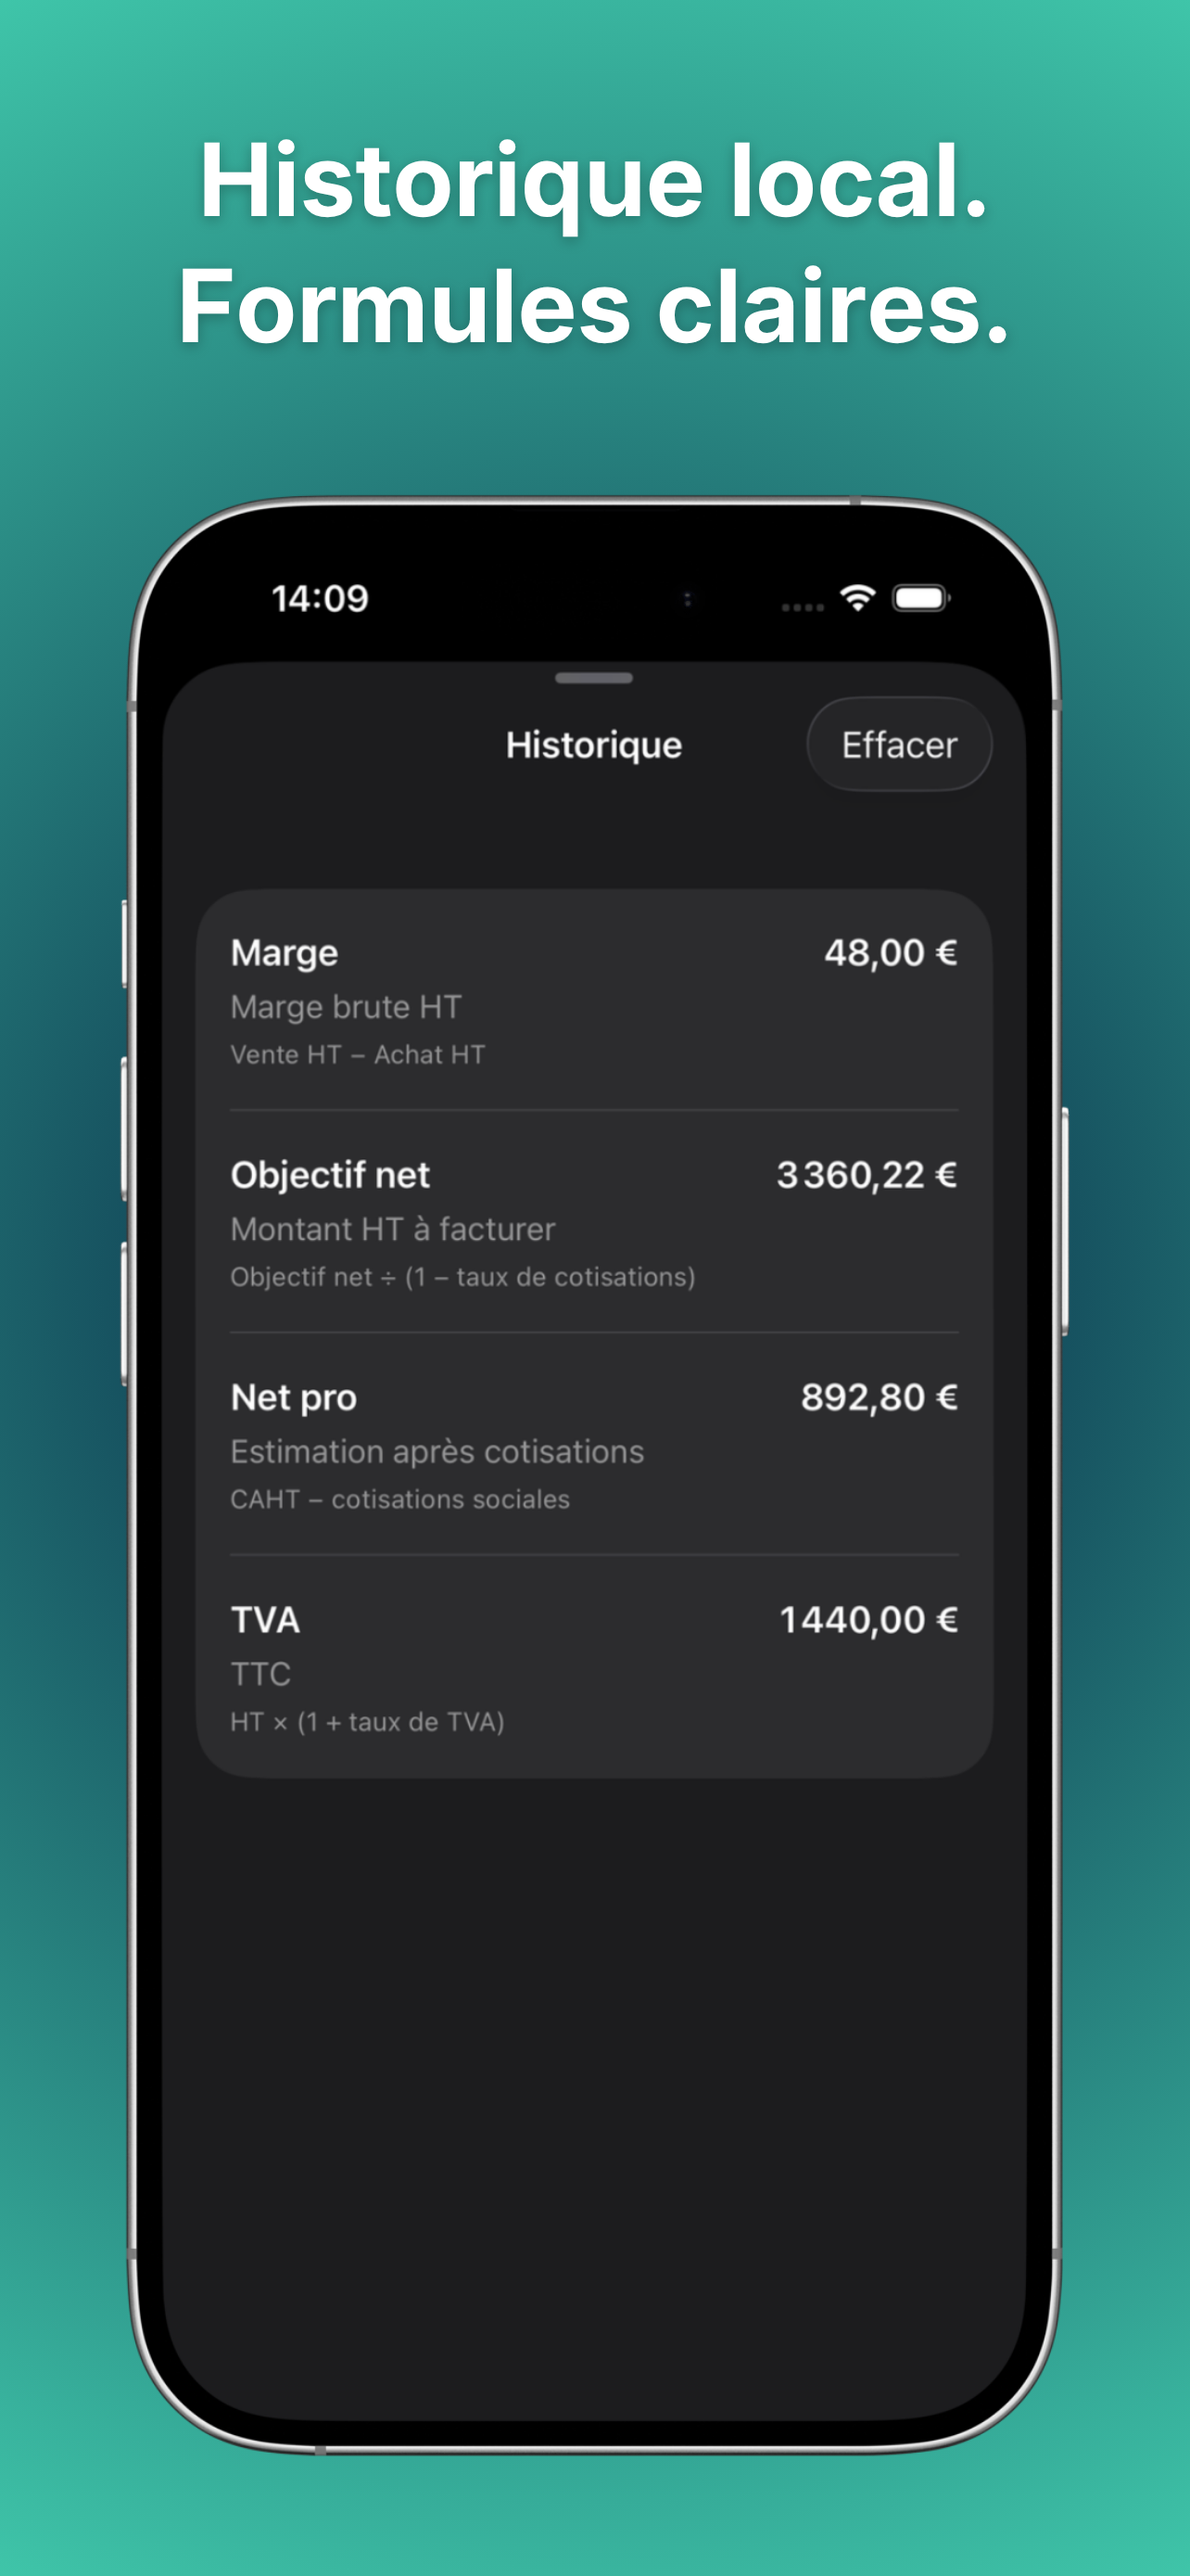
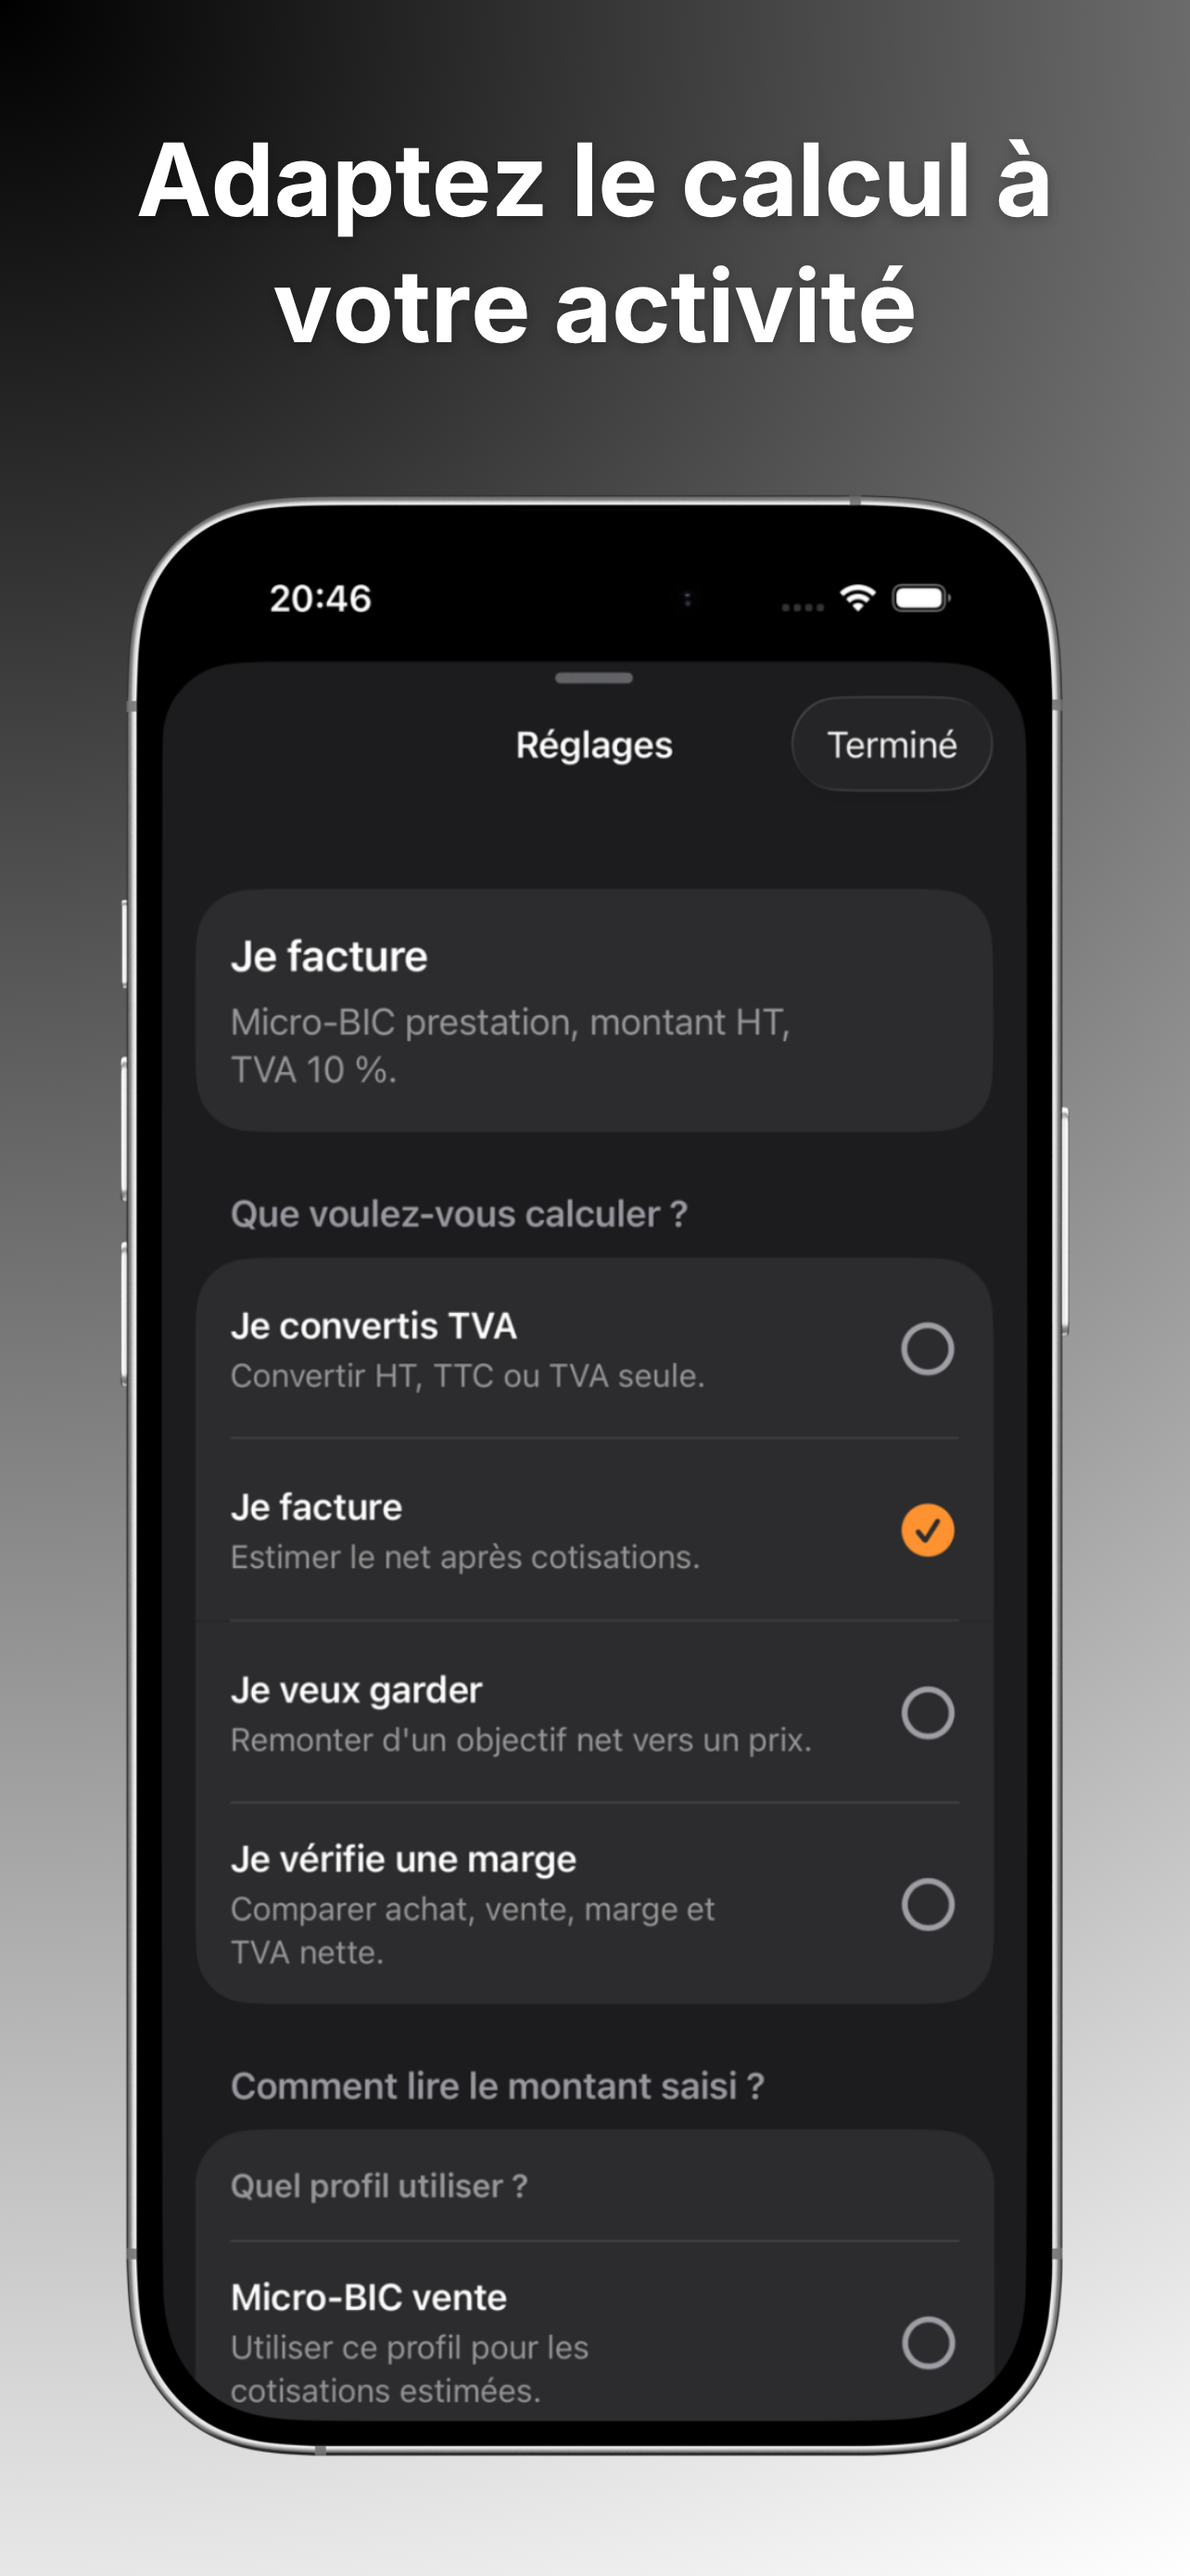
docs(release): prepare App Store 1.0.1 materials

diff --git a/apps/web/lib/sitemap.ts b/apps/web/lib/sitemap.ts
@@ -9,7 +9,7 @@ export interface SitemapEntry {
 }
 
 export const sitemapPages: PageKind[] = ["home", "privacy", "support"];
-export const sitemapLastModified = new Date("2026-05-20");
+export const sitemapLastModified = new Date("2026-05-21");
 
 function buildPageAlternates(page: PageKind) {
   return Object.fromEntries([

diff --git a/docs/releases/app-store-connect-metadata.md b/docs/releases/app-store-connect-metadata.md
@@ -1,16 +1,18 @@
 # Metadonnees App Store Connect
 
-Source : preparation interne pour App Store Connect, le
-2026-05-15T12:31:04+0400.
+Source : preparation interne pour App Store Connect, mise a jour pour la version
+1.0.1 le 2026-05-21T20:58:53+0400.
 
 Ce fichier archive les champs editoriaux et de configuration a renseigner pour
-la publication initiale de Calculette Fiscale. Les coordonnees personnelles de
+la publication de Calculette Fiscale. Les coordonnees personnelles de
 verification Apple ne sont pas archivees en clair dans le depot.
 
 ## Sources Apple utilisees
 
 - Metadonnees App Store Connect :
   https://developer.apple.com/help/app-store-connect/reference/app-information/platform-version-information
+- Proprietes localisables et modifiables :
+  https://developer.apple.com/help/app-store-connect/reference/app-information/required-localizable-and-editable-properties
 - Specifications des captures :
   https://developer.apple.com/help/app-store-connect/reference/app-information/screenshot-specifications
 - Confidentialite App Store :
@@ -18,7 +20,7 @@ verification Apple ne sont pas archivees en clair dans le depot.
 - Achats integres :
   https://developer.apple.com/help/app-store-connect/reference/in-app-purchases-and-subscriptions/in-app-purchase-information
 
-Limites Apple retenues au 2026-05-15 :
+Limites Apple retenues au 2026-05-21 :
 
 - Nom : 30 caracteres maximum.
 - Sous-titre : 30 caracteres maximum.
@@ -31,11 +33,11 @@ Limites Apple retenues au 2026-05-15 :
 ## Informations app globales
 
 - Nom : `Calculette Fiscale`
-- Sous-titre : `TVA, charges & net`
+- Sous-titre : `TVA, net pro & marge`
 - Bundle ID : `io.hgnn.calculettefiscale`
 - SKU recommande : `io.hgnn.calculettefiscale`
-- Version marketing : `1.0.0`
-- Build : `1`
+- Version marketing : `1.0.1`
+- Build : `2`
 - Cible minimum : `iOS 17.0`
 - Apple Developer Team : `393ZW5QCU6`
 - Langue principale : `Francais`
@@ -65,23 +67,23 @@ Compteur : 18 caracteres sur 30.
 ### Sous-titre
 
 ```text
-TVA, charges & net
+TVA, net pro & marge
 ```
 
-Compteur : 18 caracteres sur 30.
+Compteur : 20 caracteres sur 30.
 
 ### Texte promotionnel
 
 ```text
-HT, TTC, TVA, net et marge dans une calculette francaise, sans compte, sans pub et sans abonnement.
+TVA, net pro, objectif net et marge dans une calculette française. Sans compte, sans pub, sans abonnement.
 ```
 
-Compteur : 99 caracteres sur 170.
+Compteur : 106 caracteres sur 170.
 
 ### Mots-cles
 
 ```text
-tva,ttc,horstaxe,micro,autoentrepreneur,freelance,charges,net,marge,urssaf,devis,prix,impot
+ttc,horstaxe,micro,autoentrepreneur,freelance,charges,urssaf,devis,prix,facture,cotisations
 ```
 
 Compteur : 91 octets sur 100.
@@ -89,43 +91,44 @@ Compteur : 91 octets sur 100.
 Notes ASO :
 
 - Ne pas repeter `Calculette Fiscale`, deja couvert par le nom.
+- Ne pas repeter `TVA`, `net` ou `marge`, deja couverts par le sous-titre.
 - `HT` n'est pas ajoute seul car Apple demande des mots-cles de plus de deux
   caracteres. `horstaxe` couvre l'intention de recherche.
-- La fiche doit garder l'angle `TVA, net, marge`, plus differenciant qu'une app
-  TVA pure.
+- La fiche garde l'angle `TVA, net pro, marge`, plus differenciant qu'une app
+  TVA pure et plus prudent qu'une promesse de declaration fiscale.
 
 ### Description
 
 ```text
-Calculette Fiscale est la calculette francaise pour comprendre rapidement ce qu'il y a derriere un montant : HT, TTC, TVA, charges, net estime et marge.
+Calculette Fiscale est la calculette française pour comprendre vite ce qu'il y a derrière un montant : TVA, HT, TTC, net pro estimé, objectif net et marge.
 
-Elle a ete pensee pour les independants, freelances, micro-entrepreneurs, dirigeants de TPE, artisans, commercants et consultants qui manipulent des montants toute la journee et veulent decider vite, sans ouvrir un tableur.
+Elle aide les indépendants, freelances, micro-entrepreneurs, dirigeants de TPE, artisans, commerçants et consultants à préparer un devis, vérifier un prix ou lire une marge sans ouvrir un tableur.
 
 TVA
-Passez du HT au TTC, du TTC au HT, ou calculez uniquement la TVA. Les taux francais usuels sont inclus : 20 %, 10 %, 5,5 % et 2,1 %. Vous pouvez aussi saisir un taux personnalise.
+Passez du HT au TTC, du TTC au HT, ou calculez uniquement la TVA. Les taux français usuels sont inclus : 20 %, 10 %, 5,5 % et 2,1 %. Vous pouvez aussi saisir un taux personnalisé.
 
 NET PRO
-Estimez ce qu'il reste apres cotisations pour les profils micro pris en charge dans la V1 : Micro-BIC vente, Micro-BIC prestation et Micro-BNC prestation. L'app distingue le chiffre d'affaires HT, la TVA a mettre de cote, les cotisations estimees et le net indicatif.
+Estimez ce qu'il reste après cotisations pour les profils micro pris en charge dans la V1 : Micro-BIC vente, Micro-BIC prestation et Micro-BNC prestation. L'app distingue le chiffre d'affaires HT, la TVA à mettre de côté, les cotisations estimées et le net indicatif.
 
 OBJECTIF NET
-Partez du montant que vous voulez garder et obtenez une estimation du montant HT a facturer, avec le TTC si la TVA s'applique. Pratique pour preparer un devis, cadrer une mission ou verifier un prix avant de l'annoncer.
+Partez du montant que vous voulez garder et obtenez une estimation du montant HT à facturer, avec le TTC si la TVA s'applique. Pratique pour cadrer une mission, préparer un devis ou vérifier un prix avant de l'annoncer.
 
 MARGE
-Comparez un prix d'achat et un prix de vente. Calculette Fiscale calcule la marge brute HT, le taux de marge, le taux de marque, la TVA collectee, la TVA deductible et la TVA nette.
+Comparez un prix d'achat et un prix de vente. Calculette Fiscale calcule la marge brute HT, le taux de marge, le taux de marque, la TVA collectée, la TVA déductible et la TVA nette.
 
-FORMULES ET BAREMES
-Les resultats Pro affichent le detail du calcul, la formule utilisee, les avertissements et l'identifiant du jeu de regles fiscales. Les baremes V1 sont dates et sources dans la documentation interne de l'app.
+FORMULES
+Les résultats Pro affichent le détail du calcul, la formule utilisée, les avertissements utiles et l'identifiant du jeu de règles fiscales. Les barèmes V1 sont datés et sourcés dans la documentation interne de l'app.
 
-CONFIDENTIALITE
-Pas de compte. Pas de publicite. Pas de backend. Les montants et l'historique restent stockes localement sur votre iPhone. L'achat Pro utilise StoreKit 2, le systeme d'achat integre d'Apple.
+CONFIDENTIALITÉ
+Pas de compte. Pas de publicité. Pas de backend. Les montants et l'historique restent stockés localement sur votre iPhone. L'achat Pro utilise StoreKit 2, le système d'achat intégré d'Apple.
 
 GRATUIT, PUIS PRO SI VOUS EN AVEZ BESOIN
-La calculette standard, le mode TVA et la copie du resultat principal sont gratuits. La version Pro debloque Net pro, Objectif net, Marge, l'historique et le detail complet des formules avec un achat unique, sans abonnement.
+La calculette standard, le mode TVA et la copie du résultat principal sont gratuits. La version Pro débloque Net pro, Objectif net, Marge, l'historique et le détail complet des formules avec un achat unique, sans abonnement.
 
-Calculette Fiscale fournit des estimations indicatives. Elle ne remplace pas une declaration officielle, un expert-comptable ou un conseil fiscal adapte a votre situation.
+Calculette Fiscale fournit des estimations indicatives. Elle ne remplace pas une déclaration officielle, un expert-comptable ou un conseil fiscal adapté à votre situation.
 ```
 
-Compteur : 2 141 caracteres sur 4 000.
+Compteur : 2 113 caracteres sur 4 000.
 
 ## Achats integres
 
@@ -223,7 +226,7 @@ captures, avec le meme style visuel que l'app et du texte court.
    - Ecran : detail du calcul ou historique.
    - Objectif : rassurer sur la transparence et la confidentialite.
 
-Set brut capture le 2026-05-15 : 6 captures simulateur conservees dans
+Set brut capture le 2026-05-21 : 6 captures simulateur conservees dans
 `docs/releases/app-store-screenshots/raw/`. La cinquieme capture regroupe
 historique local et formules visibles. La sixieme montre les reglages
 personnalisables : taux de TVA, profil micro et options du calcul.

diff --git a/docs/releases/1.0.1.md b/docs/releases/1.0.1.md
@@ -1,0 +1,65 @@
+# Calculette Fiscale 1.0.1
+
+## Statut
+
+- Version : 1.0.1
+- Build : 2
+- Branche : `codex/1.0.1-ui-refresh`
+- Statut App Store Connect : brouillon interne
+
+## Notes App Store
+
+Limite Apple : 4 000 caracteres.
+
+```text
+Calculette Fiscale 1.0.1 rend l'app plus claire, plus lisible et plus agréable à utiliser au quotidien.
+
+Nouveautes :
+
+- Écran principal plus lisible, avec un résultat plus grand.
+- Intentions métier plus claires : convertir la TVA, facturer, garder un net ou vérifier une marge.
+- Résumé concret sous le résultat pour comprendre plus vite ce que le montant signifie.
+- Réglages regroupés dans une feuille dédiée, autour de questions simples.
+- Preview Pro avant le paywall pour mieux présenter les modes verrouillés.
+- Détail Pro reformulé pour lire le montant de départ, la TVA, la base de calcul, les charges et le reste.
+
+Les calculs fiscaux, les barèmes, l'achat Pro et le fonctionnement local restent inchangés.
+```
+
+Compteur : 717 caracteres sur 4 000.
+
+## Resume technique interne
+
+- App native SwiftUI, francais uniquement en V1.
+- Xcode : `MARKETING_VERSION = 1.0.1`, `CURRENT_PROJECT_VERSION = 2`.
+- Cible minimum : `iOS 17.0`.
+- Refonte UX de l'ecran principal dans `CalculatorShellView`.
+- Ajout de fixtures `DEBUG` pour reproduire les 6 captures RAW App Store.
+- Ajout d'une preview locale pour les modes Pro verrouilles.
+- Reglages secondaires regroupes dans la feuille `Reglages` sous forme de questions.
+- Detail Pro regroupe en sections pedagogiques.
+- Blocage explicite de la division par zéro avec message d'erreur.
+- Correction du résumé netGoal en cas de franchise en base.
+- Partage du formateur de nombre de clavier pour réduire les allocations à la saisie.
+- Aucun changement du moteur fiscal, des constantes fiscales, de StoreKit, du backend ou de la confidentialite.
+- Jeu de regles fiscales conserve : `fr-2026-v1-2026-05-14`.
+- Vérification web:
+  - `npm run lint` OK.
+  - `npm run typecheck` OK.
+  - `npm run build` OK en environnement non restreint.
+  - En sandbox: échec Turbopack (port binding) sur `/sitemap.xml/route`, identifié comme contrainte infra locale.
+- Validation manuelle recommandée: date de `sitemapLastModified` en cohérence avec la mise en ligne (`2026-05-21`).
+- Captures RAW App Store regenerees le `2026-05-21` sur simulateur iPhone 17 Pro, format `1206 x 2622`.
+
+## Tests et validations avant soumission
+
+- Tests unitaires iOS executes le `2026-05-21` : 39 passes, 0 echec.
+- Build simulateur iPhone 17 Pro execute le `2026-05-21`.
+- Verifier manuellement le mode TVA gratuit.
+- Verifier les modes Pro verrouilles puis deverrouilles.
+- Verifier les reglages TVA, taux personnalise, profil, franchise, VFL, CFP et marge.
+- Verifier la copie du resultat, l'historique et le detail Pro.
+- Relire l'interface sur plusieurs tailles d'iPhone pour eviter les textes tronques.
+- Verifier les parcours avec objectif net en mode TVA et en franchise en base.
+- Verifier l'affichage du message de division par zero et le comportement de saisie.
+- Valider la stabilité du texte de resultat en saisie rapide.

diff --git a/README.md b/README.md
@@ -45,10 +45,10 @@ Espaces prevus plus tard :
 - Scheme : `CalculetteFiscale`
 - Bundle identifier : `io.hgnn.calculettefiscale`
 - Langue V1 : francais
-- UI : SwiftUI
+- UI : SwiftUI, interface sombre avec écran principal épuré depuis `1.0.1`
 - Cible minimum : iOS 17
-- Version marketing : `1.0.0`
-- Build : `1`
+- Version marketing : `1.0.1`
+- Build : `2`
 - Domaine : calculs deterministes dans `Sources/Domain`, constantes fiscales versionnees avec le jeu de regles `fr-2026-v1-2026-05-14`
 - Etat local : `Sources/State`, historique encode en JSON dans `UserDefaults`, limite aux 50 derniers calculs
 - Monetisation : StoreKit 2 dans `Sources/Store`, achat unique non-consommable `pro_lifetime`, fichier local `Resources/CalculetteFiscale.storekit`
@@ -140,7 +140,7 @@ Configuration App Store Connect V1 publiee :
 ## Decisions retenues
 
 - Nom App Store : `Calculette Fiscale`.
-- Sous-titre ASO : `TVA, charges & net`.
+- Sous-titre ASO : `TVA, net pro & marge`.
 - Prix V1 Pro : 9,99 euros en achat unique.
 - Confidentialite : calculs locaux, pas de backend.
 - Repository : monorepo, extensible vers Android, Mac et web.

diff --git a/docs/releases/README.md b/docs/releases/README.md
@@ -19,12 +19,29 @@ Les captures App Store brutes prises localement vivent dans
 `docs/releases/app-store-screenshots/raw/`. Les exports finaux prepares pour
 App Store Connect vivent dans `docs/releases/app-store-screenshots/canva/`.
 
+## Captures RAW
+
+Les captures RAW iOS 1.0.1 utilisent des fixtures `DEBUG` lancees avec
+`CALCULETTE_SCREENSHOT_SCENARIO`.
+
+Scenarios disponibles :
+
+- `01-tva-facture`
+- `02-net-pro`
+- `03-objectif-net`
+- `04-marge`
+- `05-historique-local`
+- `06-personnalisation`
+
+Format de reference : simulateur iPhone 17 Pro en portrait, `1206 x 2622`.
+
 ## Convention
 
 Chaque version doit avoir son propre fichier :
 
 ```text
 docs/releases/1.0.0.md
+docs/releases/1.0.1.md
 ```
 
 La release GitHub publique ne doit etre creee qu'apres validation et publication
